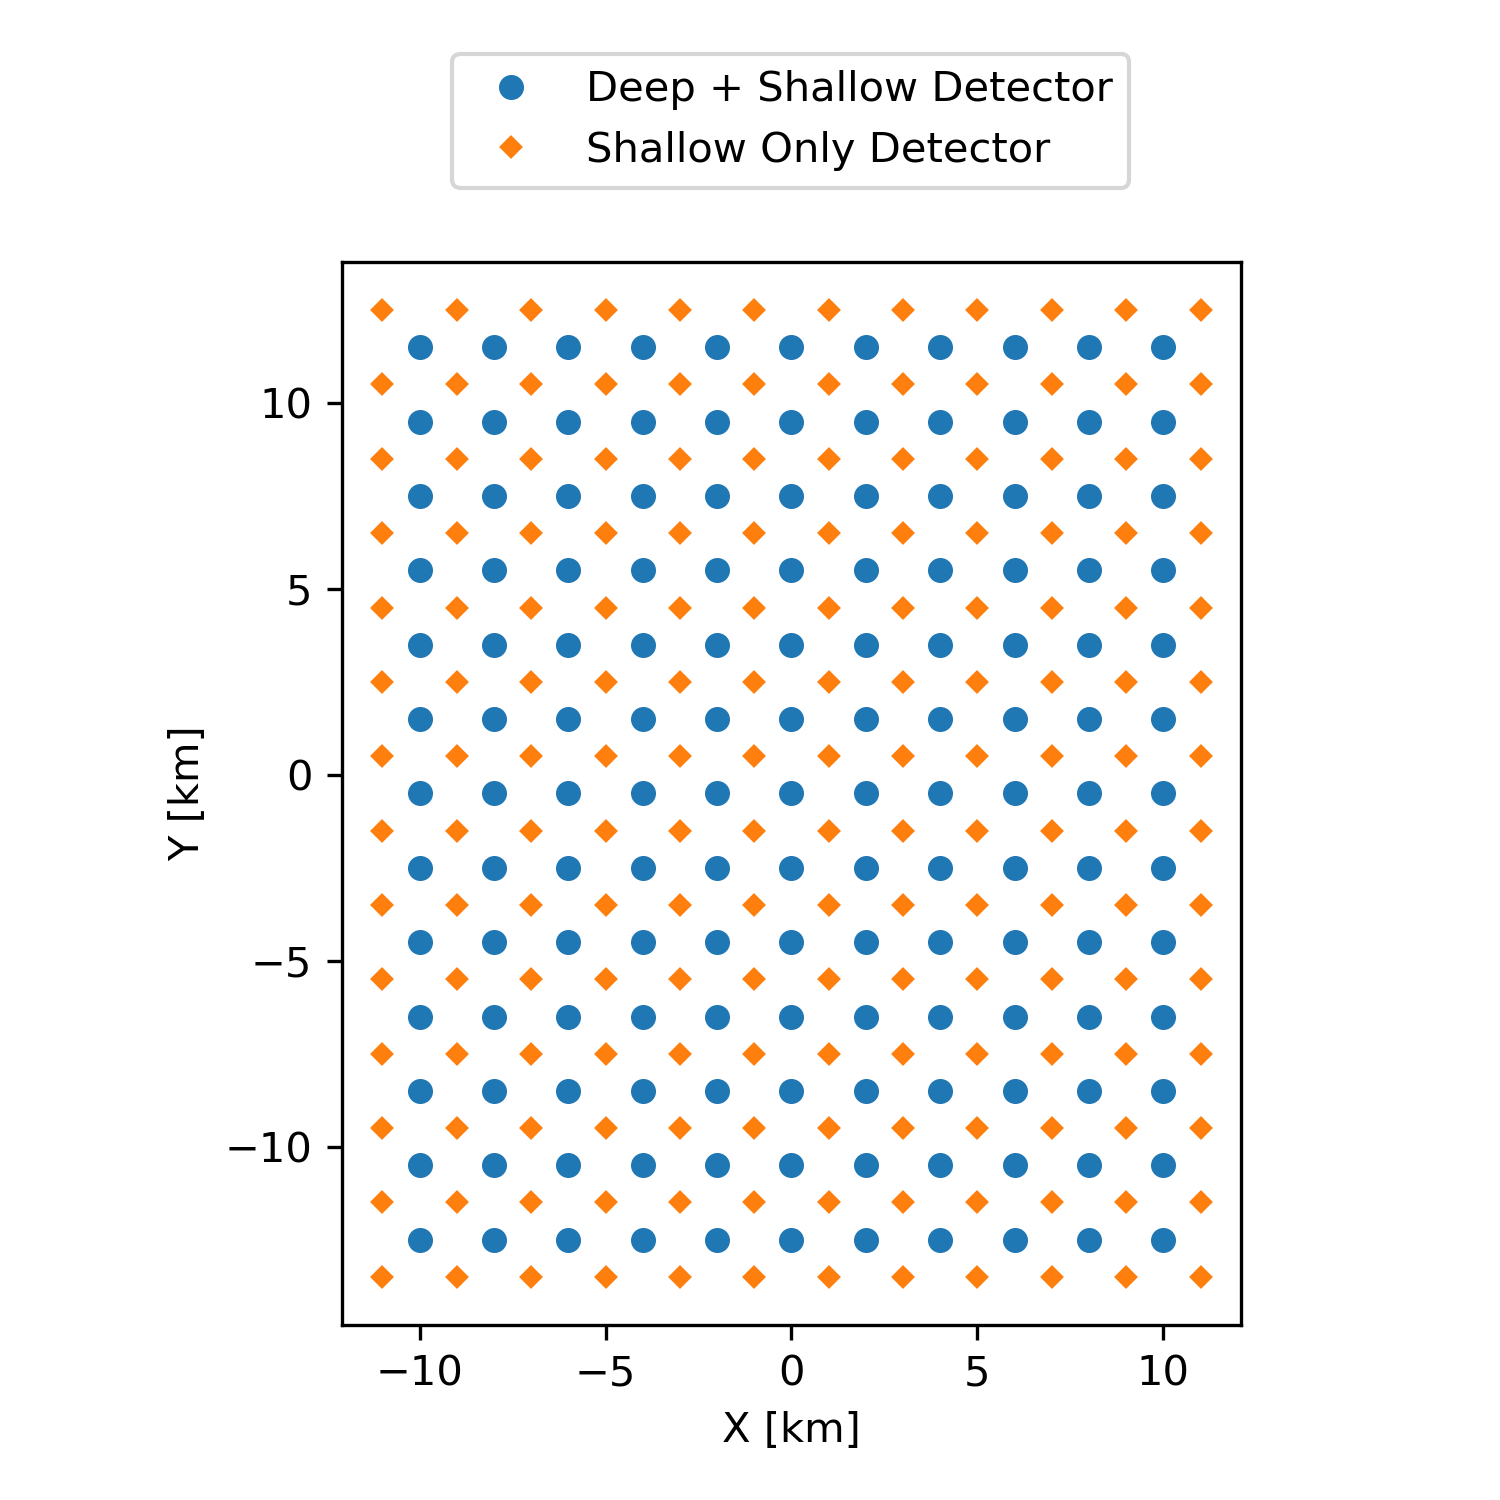
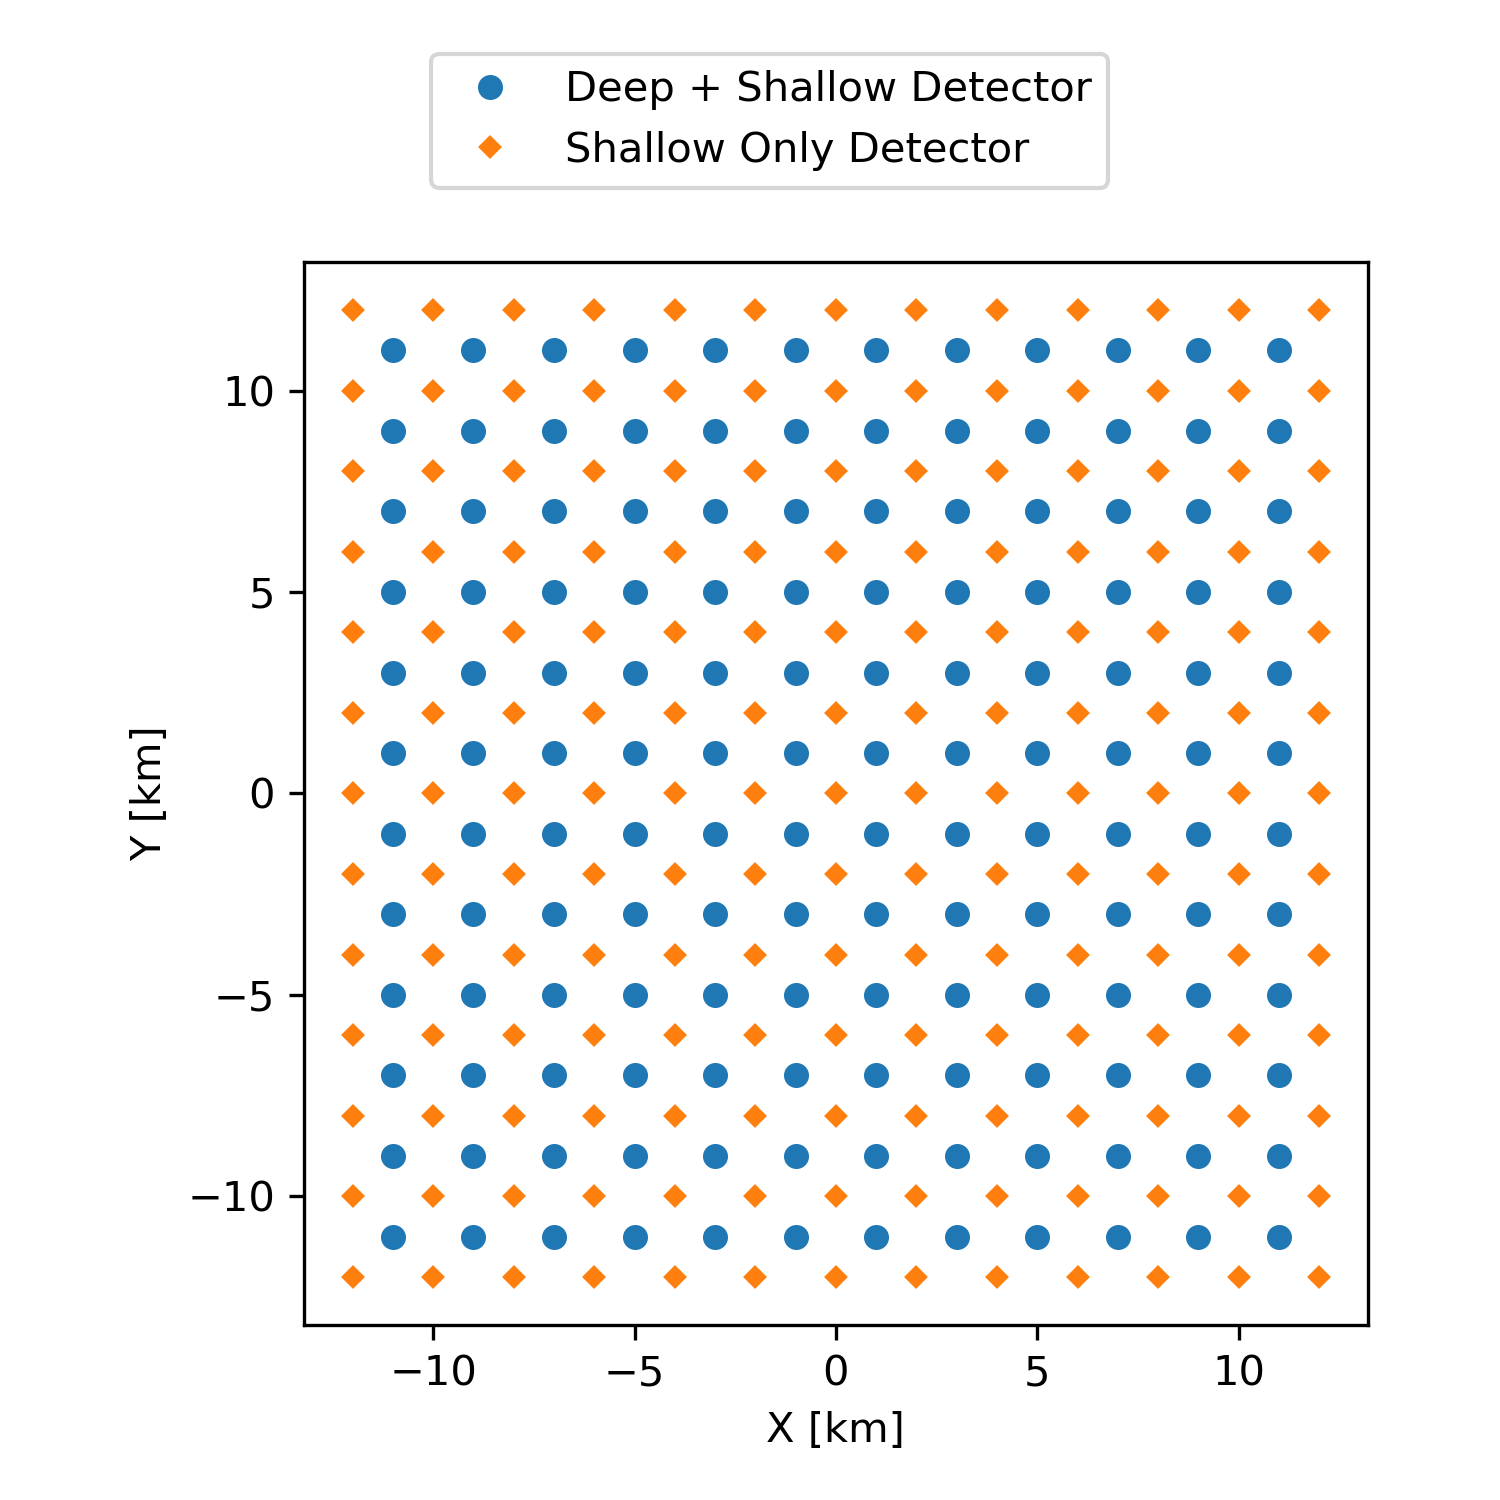
fix plot to actually have 12x12 and 13x13 array

diff --git a/analysis/2021.02_review/plot_detectors/A01plot_layout.py b/analysis/2021.02_review/plot_detectors/A01plot_layout.py
@@ -8,16 +8,15 @@ spacing = 2.0  # in km
 xx = []
 yy = []
 station_id = 0
-xx = np.arange(-10, 10.1, spacing) * units.km
-yy = np.arange(-12.5, 12.51, spacing) * units.km
+xx = np.arange(-11, 11.1, spacing) * units.km
+yy = np.arange(-11, 11.1, spacing) * units.km
 
 spacing_s = 2
-xx_s = np.arange(-10 - 0.5 * spacing_s, 10.1 + 0.5 * spacing_s, spacing_s) * units.km
-yy_s = np.arange(-12.5 - 0.5 * spacing_s, 12.51 + 0.5 * spacing_s, spacing_s) * units.km
+xx_s = np.arange(-11 - 0.5 * spacing_s, 11.1 + 0.5 * spacing_s, spacing_s) * units.km
+yy_s = np.arange(-11 - 0.5 * spacing_s, 11.1 + 0.5 * spacing_s, spacing_s) * units.km
 
-print(f"generates {station_id} stations with a spacing of {spacing}km")
-print(f"deep + shallow: {len(xx)} x {len(yy)} = {len(xx) * len(yy)} stations with {spacing} spacing")
-print(f"shallow only: {len(xx_s)} x {len(yy_s)} = {len(xx_s) * len(yy_s)} stations with {spacing_s} spacing -> effective shallow spacing {2**0.5 * 0.5 * spacing:.2f}")
+print('Num deep stations {}'.format(len(xx)*len(yy)))
+print("Num independent shallow stations {}".format(len(xx_s)*len(yy_s)))
 
 d = np.meshgrid(xx, yy)
 xxx = d[0].flatten()
